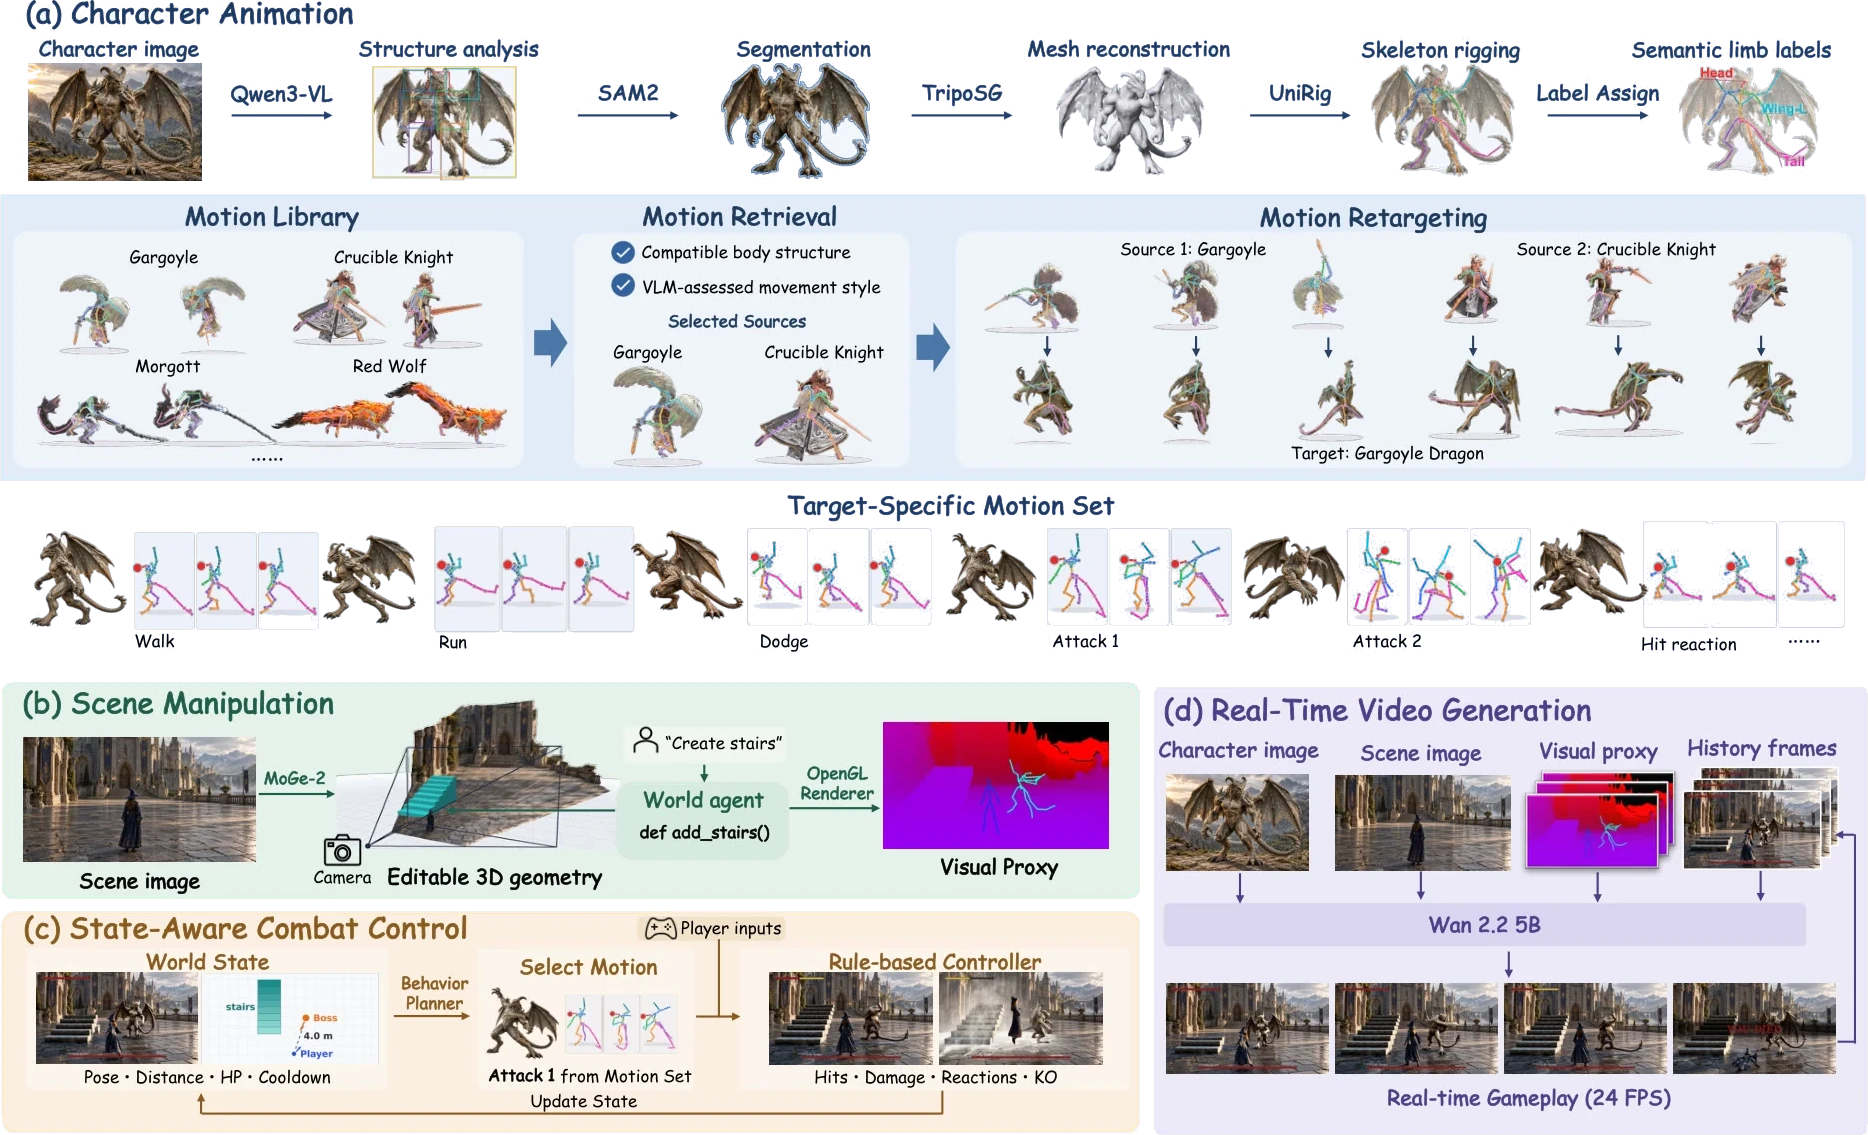
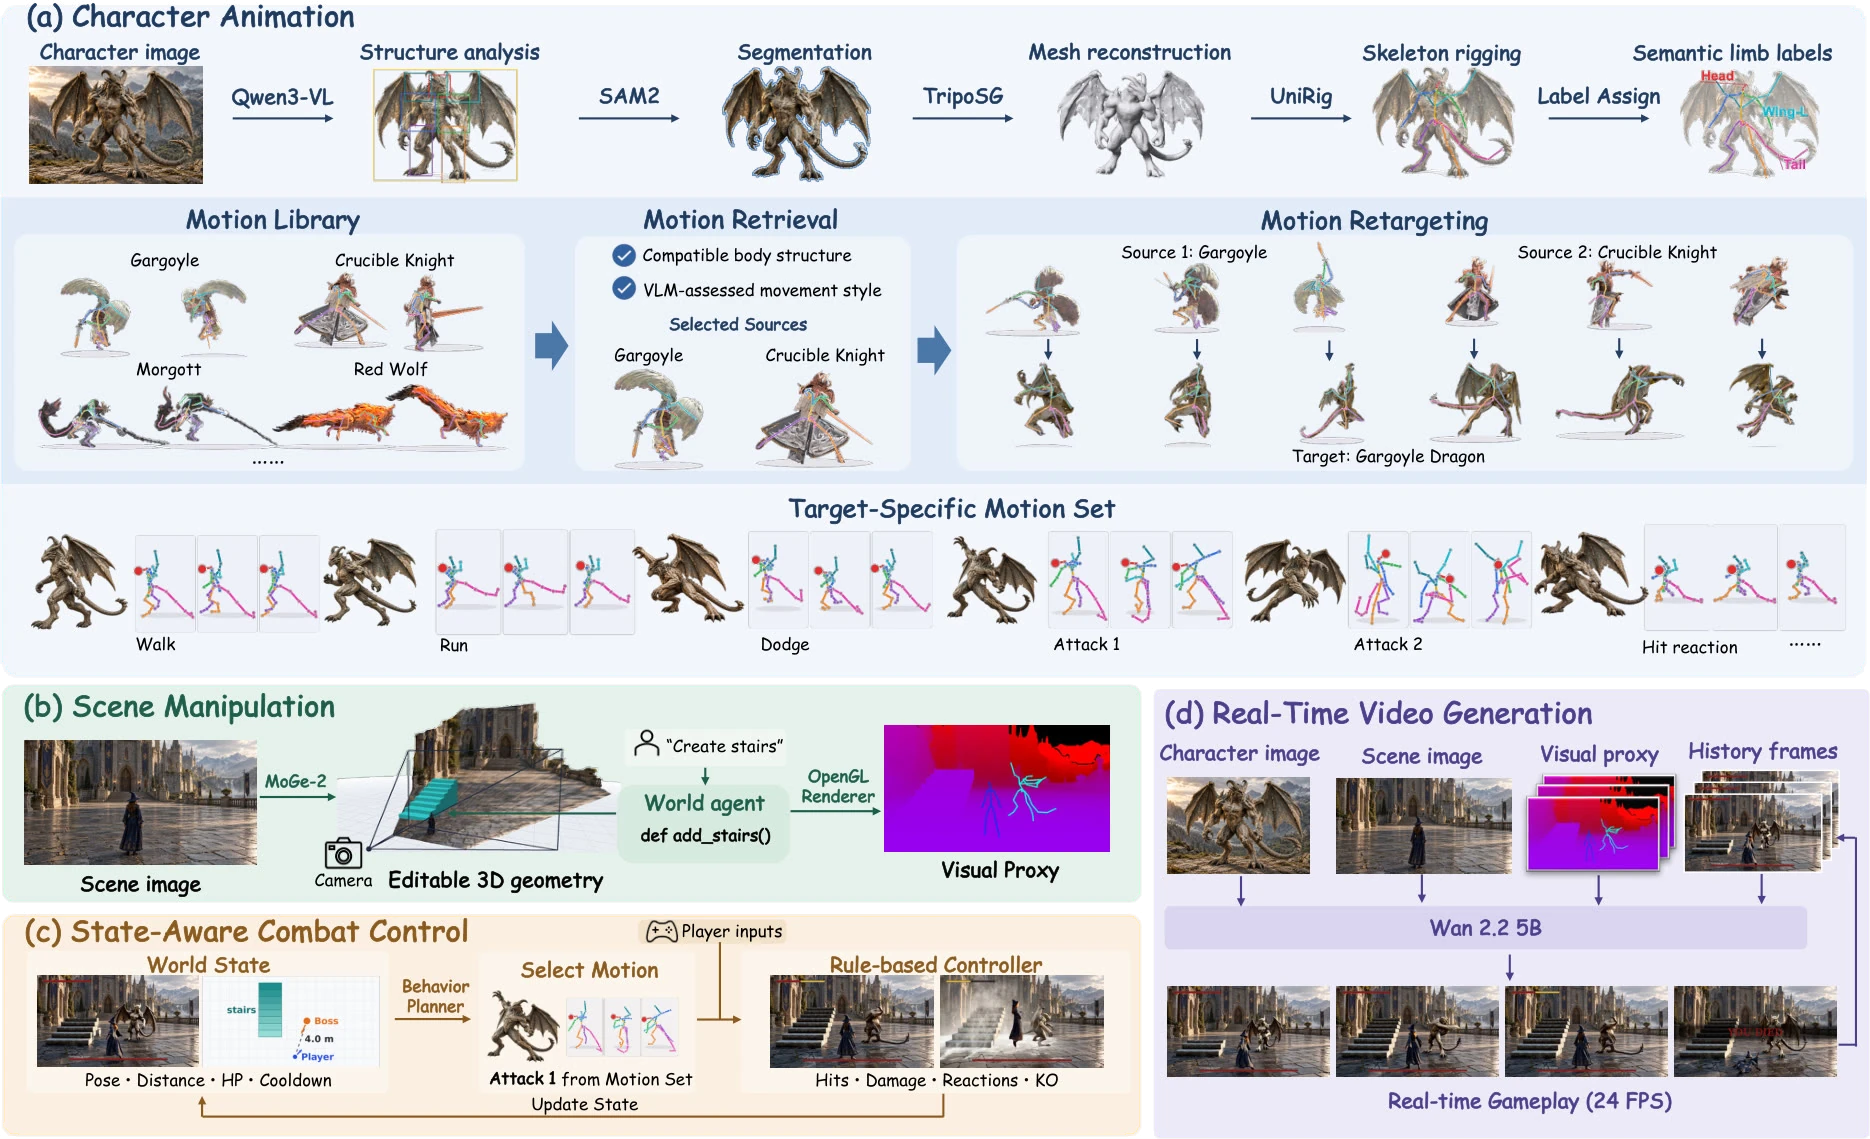
Restore pale panel tints in fig3/fig4 (knock out only near-pure white)

diff --git a/index.html b/index.html
@@ -351,7 +351,7 @@ dialog.lb p { color: #dfe8ec; text-align: center; font-size: .88rem; margin-top:
   <div class="wrap">
     <div class="split"><div class="sh"><span class="kicker">Method</span><h2><b>Agents</b> keep the state. <b>The model</b> paints it.</h2></div>
     <p class="lead">A setup stage of under five minutes reconstructs the scene and characters, rigs skeletons and builds each character's motion set. During play, the framework updates motion, geometry and combat state, and the generator renders them.</p></div>
-    <figure><a class="paper" href="assets/img/fig3.webp" target="_blank" rel="noopener" title="Open full size"><img src="assets/img/fig3.webp" alt="Inference pipeline: (a) character animation, (b) scene manipulation, (c) state-aware combat control, (d) real-time video generation." loading="lazy"></a><figcaption class="figcap"><b>Figure 2.</b> Inference pipeline.</figcaption></figure>
+    <figure><a class="paper" href="assets/img/fig3.webp?v=2" target="_blank" rel="noopener" title="Open full size"><img src="assets/img/fig3.webp?v=2" alt="Inference pipeline: (a) character animation, (b) scene manipulation, (c) state-aware combat control, (d) real-time video generation." loading="lazy"></a><figcaption class="figcap"><b>Figure 2.</b> Inference pipeline.</figcaption></figure>
     <div class="parts">
       <div class="card"><h3><small>(a)</small>Character animation</h3><p>Qwen3-VL infers body structure; SAM2, TripoSG and UniRig give a labelled skeleton. Motions from CombatMotion, WildWorld and Elden Ring are retrieved by body structure and style, then retargeted limb chain by limb chain.</p></div>
       <div class="card"><h3><small>(b)</small>Scene manipulation</h3><p>MoGe-2 recovers geometry and camera. An OpenGL renderer draws the proxy, and Qwen3-VL-8B turns instructions into programs over geometric operators, from raising a platform to turning the world upside down.</p></div>
@@ -359,7 +359,7 @@ dialog.lb p { color: #dfe8ec; text-align: center; font-size: .88rem; margin-top:
       <div class="card"><h3><small>(d)</small>Real-time generation</h3><p>Wan2.2-TI2V-5B renders the proxies conditioned on the first frame, one reference per character and the retained history, at 24 FPS with two denoising steps.</p></div>
     </div>
     <div class="figrow">
-    <figure><a class="paper" href="assets/img/fig4.webp" target="_blank" rel="noopener" title="Open full size"><img src="assets/img/fig4.webp" alt="Video generator architecture and character-aware adaptive masking." loading="lazy"></a><figcaption class="figcap"><b>Figure 3.</b> Generator and character-aware masking.</figcaption></figure>
+    <figure><a class="paper" href="assets/img/fig4.webp?v=2" target="_blank" rel="noopener" title="Open full size"><img src="assets/img/fig4.webp?v=2" alt="Video generator architecture and character-aware adaptive masking." loading="lazy"></a><figcaption class="figcap"><b>Figure 3.</b> Generator and character-aware masking.</figcaption></figure>
     <div class="stack">
       <div class="card"><h3><small>Masking</small>Character-aware adaptive masking</h3><p>Each reference may attend only to its own character's skeleton-derived region, expanded by 25%. The masks follow the characters and reduce appearance leakage; on a transformation they block the old identity's cached tokens while the background and first-frame sink stay visible.</p></div>
       <div class="card"><h3><small>Speed</small>Causal adaptation and distillation</h3><p>Following Causal Forcing++: teacher forcing, consistency distillation with a 20-latent-frame window and a first-frame sink, then DMD on the student's own rollouts. Proxy conditions and gated references stay active throughout.</p></div>

diff --git a/tools/knockout.py b/tools/knockout.py
@@ -1,16 +1,18 @@
 # Make the white that is connected to a figure's outer border transparent, with soft edges, then trim the margin.
-# Usage: python3 tools/knockout.py in.jpg out.webp
+# Usage: python3 tools/knockout.py in.jpg out.webp [white_threshold=250]
+# Keep the threshold high: pale panel tints (e.g. 243,246,251 in fig3) must survive.
 import sys
 import numpy as np
 from PIL import Image, ImageDraw, ImageFilter
 
 src, dst = sys.argv[1], sys.argv[2]
+thr = int(sys.argv[3]) if len(sys.argv) > 3 else 250
 im = Image.open(src).convert("RGB")
 a = np.asarray(im).astype(np.float32)
 w, h = im.size
 
 # near-white pixels, padded with a white frame so one flood fill reaches every border pixel
-near = (a.min(axis=2) >= 236).astype(np.uint8) * 255
+near = (a.min(axis=2) >= thr).astype(np.uint8) * 255
 m = Image.new("L", (w + 2, h + 2), 255)
 m.paste(Image.fromarray(near), (1, 1))
 ImageDraw.floodfill(m, (0, 0), 128)
